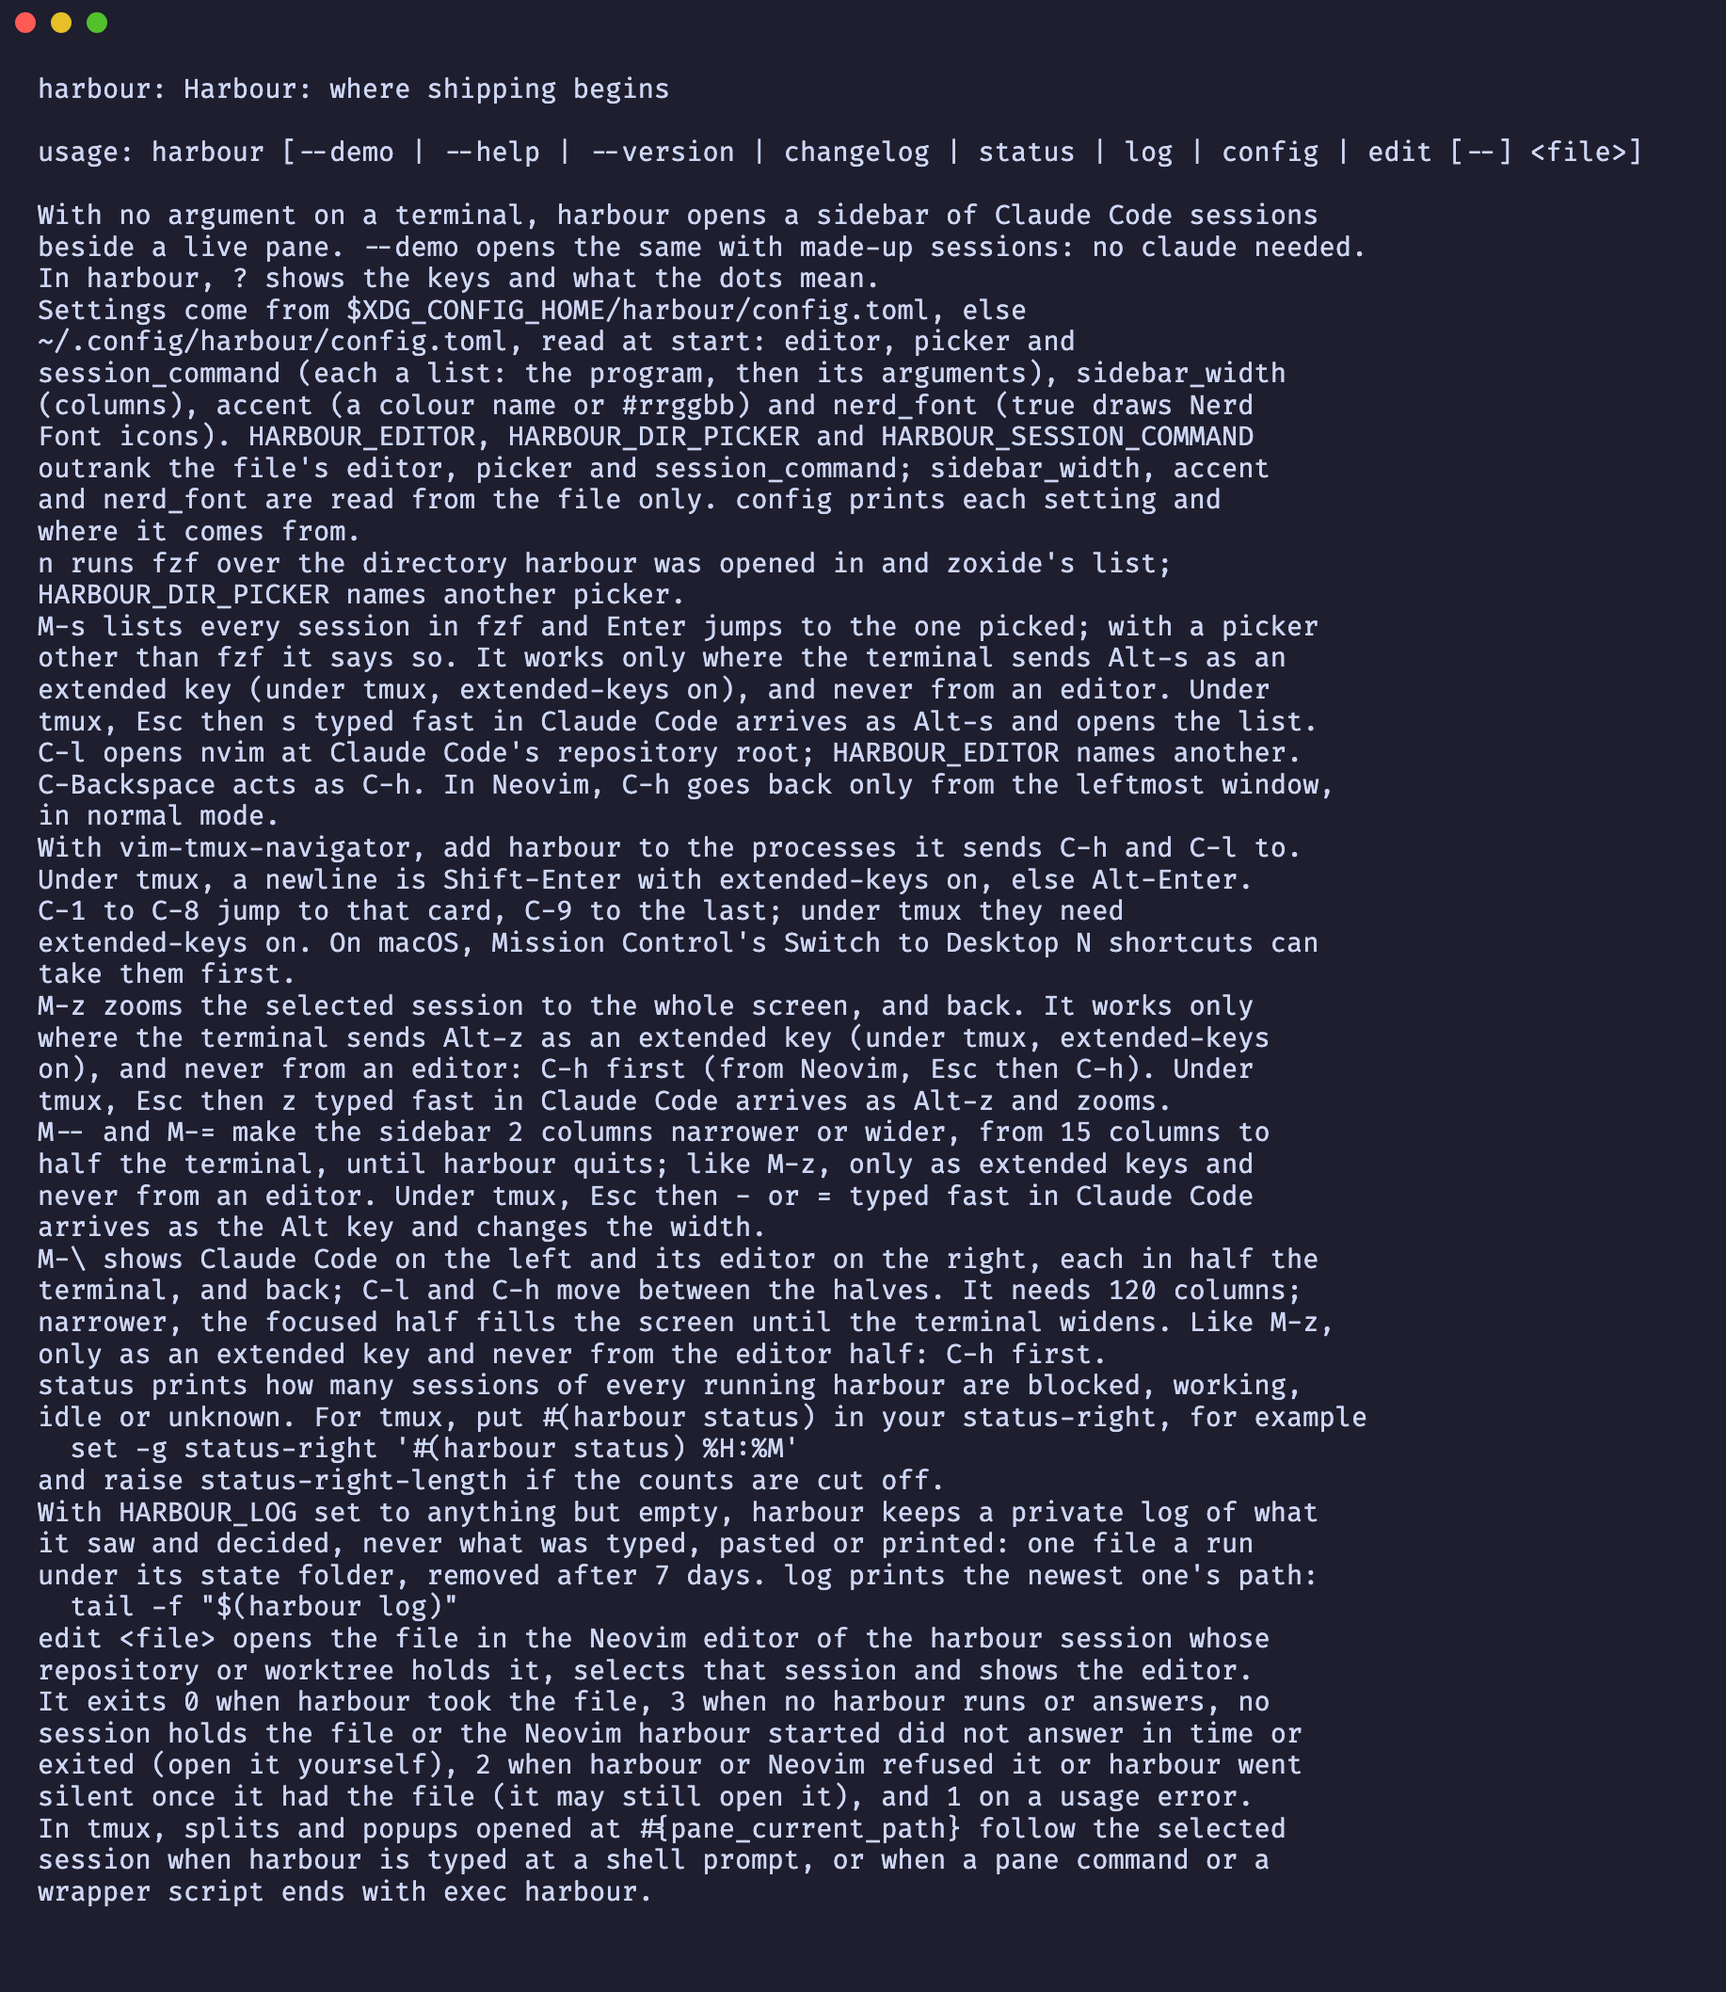
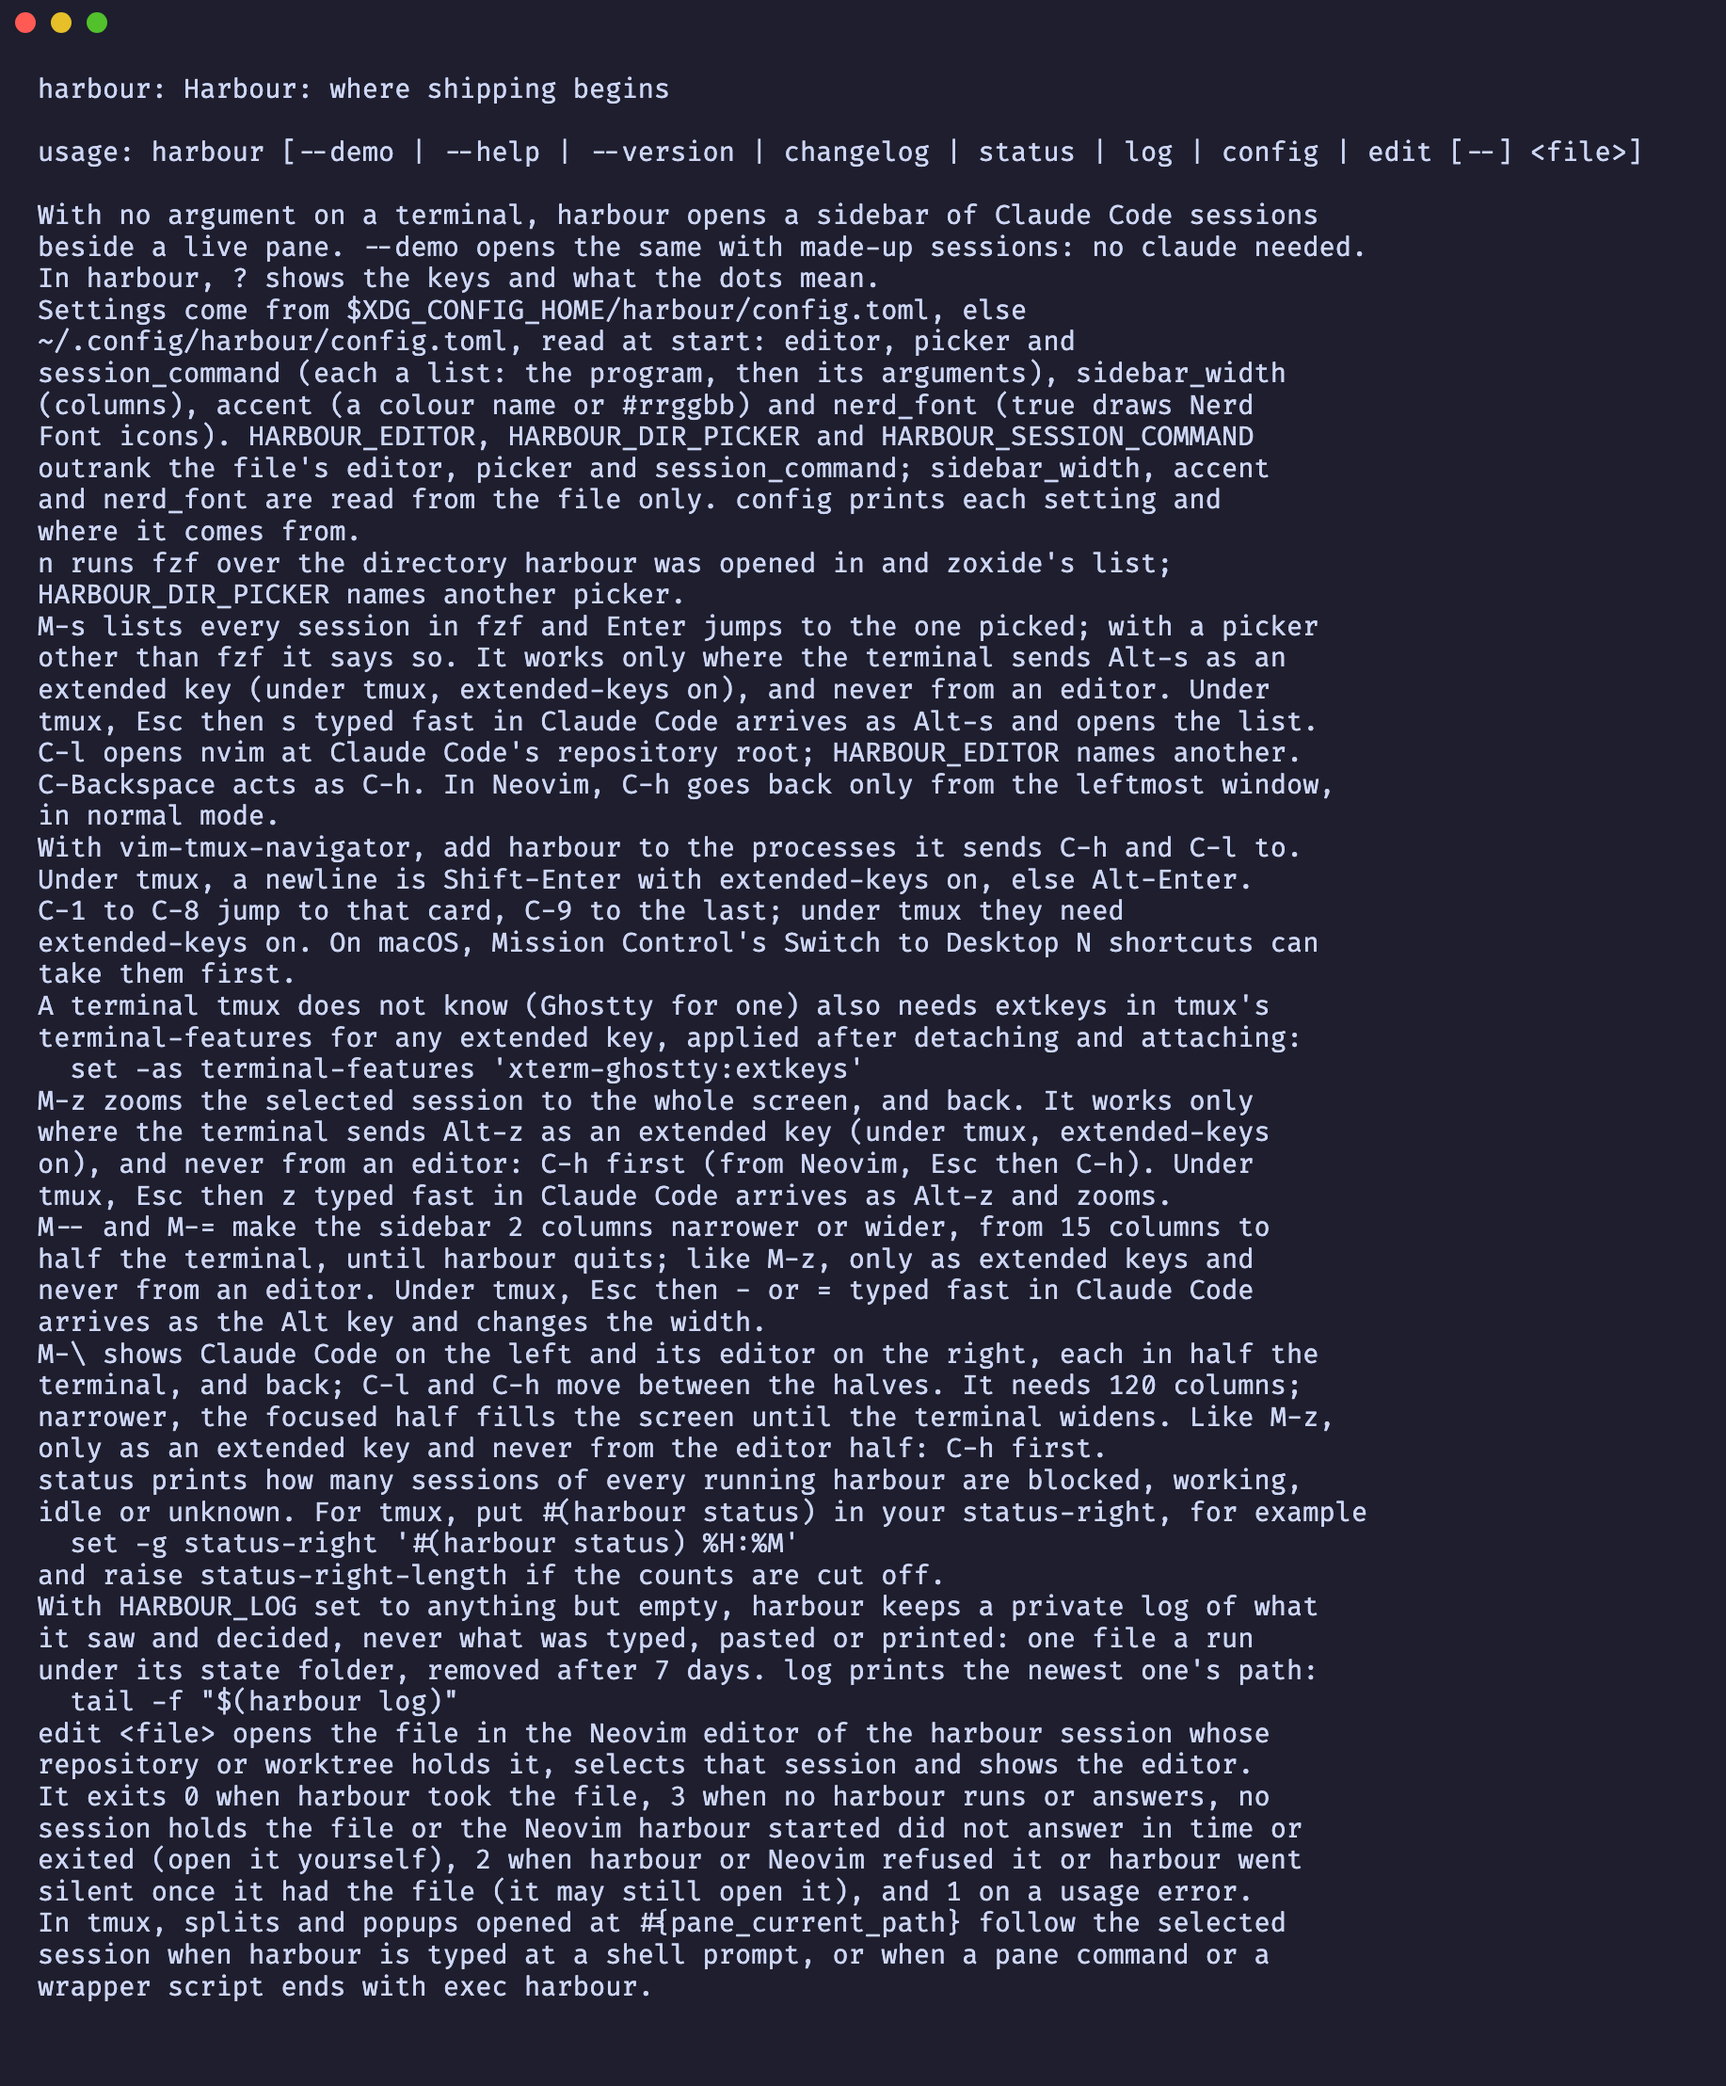
Help says Ghostty under tmux also needs extkeys in terminal-features

Changed region(s): [[0.0, 0.0312, 0.8081, 0.9669], [0.8702, 0.0624, 0.9324, 0.0936]]

diff --git a/tests/cli.rs b/tests/cli.rs
@@ -372,6 +372,9 @@ Under tmux, a newline is Shift-Enter with extended-keys on, else Alt-Enter.
 C-1 to C-8 jump to that card, C-9 to the last; under tmux they need
 extended-keys on. On macOS, Mission Control's Switch to Desktop N shortcuts can
 take them first.
+A terminal tmux does not know (Ghostty for one) also needs extkeys in tmux's
+terminal-features for any extended key, applied after detaching and attaching:
+  set -as terminal-features 'xterm-ghostty:extkeys'
 M-z zooms the selected session to the whole screen, and back. It works only
 where the terminal sends Alt-z as an extended key (under tmux, extended-keys
 on), and never from an editor: C-h first (from Neovim, Esc then C-h). Under

diff --git a/src/main.rs b/src/main.rs
@@ -34,6 +34,9 @@ Under tmux, a newline is Shift-Enter with extended-keys on, else Alt-Enter.
 C-1 to C-8 jump to that card, C-9 to the last; under tmux they need
 extended-keys on. On macOS, Mission Control's Switch to Desktop N shortcuts can
 take them first.
+A terminal tmux does not know (Ghostty for one) also needs extkeys in tmux's
+terminal-features for any extended key, applied after detaching and attaching:
+  set -as terminal-features 'xterm-ghostty:extkeys'
 M-z zooms the selected session to the whole screen, and back. It works only
 where the terminal sends Alt-z as an extended key (under tmux, extended-keys
 on), and never from an editor: C-h first (from Neovim, Esc then C-h). Under

diff --git a/AGENTS.md b/AGENTS.md
@@ -79,7 +79,7 @@ src/transcript.rs             a session's transcript (`<CLAUDE_CONFIG_DIR or ~/.
 src/card.rs                   a session's card in the sidebar: three lines cut by `src/text.rs`, line 3 with `with_icons` (`nerd_font` on) a glyph and a space before each fact in place of the dots and the word `subagents`, and the Neovim glyph and a space last while the session has an editor open and the editor is Neovim (neither the subagents nor the editor on an ended card), cut from its end as without icons, a glyph that would keep no column of its text going too, line 2 the last prompt dimmed while working or idle (empty on the selected card), else what it waits for, `exited` or why it cannot resume, on every card; the time in its state at the right of line 1 (`<1m`, `3m`, `2h`, `4d`; for an exited session, since harbour saw the exit; none without a time), kept while the title has a column; the accent's bar (cyan by default, left out with no inner column) and bold down the selected card, a blank line between cards, the scroll that keeps the selected card whole and moves only when it would leave the view, kept as it was while the sidebar has no height (zoomed, or the narrow layout showing the pane)
 src/text.rs                   every cut of text harbour draws: measured in the cells ratatui fills for each grapheme (an emoji with a variation selector, a joined sequence or a flag counts whole, a halfwidth sound mark too), cut with `…` or wrapped by those columns (between words where a word fits), never wider than the room given; cleaned of control characters, bidi marks, U+061C, U+200B and a joiner that joins nothing, folded to one line and kept to 512 characters
 src/summary.rs                the counts a running harbour publishes for `harbour status` (one publication under a name of its own, pid, time and counter: `<name>.counts` beside a `<name>.lock` it holds, under `$XDG_STATE_HOME/harbour/status/`, else `~/.local/state/harbour/status/`, nowhere when neither is absolute, private, removed on quit, never waiting for a lock; a failed write or a missing file drops the whole publication, and a fresh one is made at most every `RETRY`, 5 s; making one removes every dead publication, a regular `<digits>-<digits>-<digits>.lock` other than its own that it can open for writing and no one holds, with its `.counts` and `.tmp`) and the reader that adds up the regular `.counts` files of that naming whose lock is still held, never following a symlink
-src/help.rs                   what the help view shows besides the legend: `KEYS`, which the README key table mirrors; the help has no room for a pointer, and `harbour --help` carries the notes (`HARBOUR_DIR_PICKER`, `HARBOUR_EDITOR`, C-Backspace arriving as C-h and Neovim's C-h rule, the tmux pattern, the newline under tmux, Alt-z's rule, Alt-\'s side by side, `HARBOUR_LOG`)
+src/help.rs                   what the help view shows besides the legend: `KEYS`, which the README key table mirrors; the help has no room for a pointer, and `harbour --help` carries the notes (`HARBOUR_DIR_PICKER`, `HARBOUR_EDITOR`, C-Backspace arriving as C-h and Neovim's C-h rule, the tmux pattern, the newline under tmux, the `extkeys` terminal feature tmux needs for a terminal it does not know, Alt-z's rule, Alt-\'s side by side, `HARBOUR_LOG`)
 src/log.rs                    the log `HARBOUR_LOG` (anything but empty) turns on: one `<pid>.log` a run (0600) in a private (0700) `$XDG_STATE_HOME/harbour/log/`, else `~/.local/state/harbour/log/`, none when neither is absolute; each line stamped in UTC to the millisecond, built only when the log is on, and handed to a thread of its own over a queue of 4096 that drops what does not fit, so a stalled disk never delays a key or a frame, and `finish`, at quit, waits up to 500 ms for what is queued; never through a symlink, at the file or the folder; at start, removes the `<digits>.log` regular files older than 7 days whose pid is not alive; `newest`, what `harbour log` prints
 src/cursor.rs                 `Shape`: the cursor shape last sent to the terminal, starting at the default (0) and shared by its clones (the panic hook holds one), `ESC [ <n> SP q` written only when the shape asked for differs, and `ESC [ 0 SP q` on leaving only when the last one sent was not the default, the default then recorded as sent
 src/keys.rs                   the bytes a terminal sends for a key, which a session receives: the legacy encoding, and `encode_as`, the form a program asked for: xterm's `modifyOtherKeys` level 1 (a Ctrl key with a control byte as that byte, Alt alone and unmodified keys legacy, every other modified key as `ESC [ 27 ; mod ; code ~`) or level 2 (every modified key in that form), both with F13 to F24 as Shift-F1 to F12 and F25 to F35 unmodified as Ctrl-F1 to F11, or kitty's disambiguation (Esc and every Ctrl or Alt key as `ESC [ code ; mod u`, a modified Enter, Tab or Backspace too, F3 as `ESC [ 13 ~`, F13 to F35 from 57376); `Asked`, what a program asked for: the `modifyOtherKeys` level (off again at `ESC [ > 4 n`) and the kitty flags (disambiguation only) with their push, pop (16 deep), set and query, answered with the flags held, the kitty form winning while its flag is set

diff --git a/changes/fix-help-extkeys.md b/changes/fix-help-extkeys.md
@@ -1,0 +1,3 @@
+kind: fix
+
+- `harbour --help` says that under tmux a terminal tmux does not know, such as Ghostty, also needs `extkeys` in `terminal-features` for Ctrl-1 to Ctrl-9, Shift-Enter and the Alt keys.
